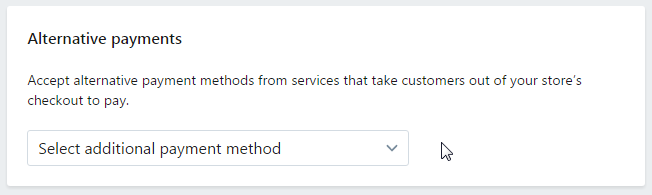
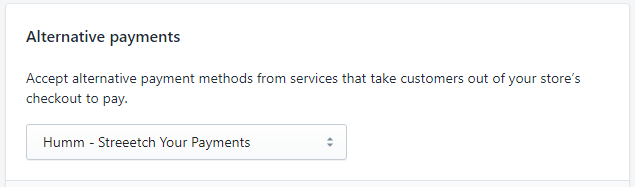
Improved Shopify docs mostly

diff --git a/docs/platforms/shopify.md b/docs/platforms/shopify.md
@@ -9,9 +9,9 @@ To setup and configure Humm on your Shopify store, please use the instructions b
   You will need your <b>Merchant ID</b> and an <b>Encryption Key</b> handy before continuing with the installation.
 </div>
 
-1 – Email <a href="mailto:pit@%domain%?Subject=Humm URL Request (Shopify)&body=Hi, %0D%0A%0D%0AMy Merchant ID is: %0D%0A%0D%0AI would like to setup Humm on my Shopify site. %0D%0A%0D%0AThanks,%0D%0A%0D%0A">pit@%domain%</a> for a copy of the **Humm Gateway Authorisation** URL. Please include your Merchant ID in the email.
+1 – Email <a href="mailto:pit@%domain%">pit@%domain%</a> with your merchant ID and mobile number for a copy of the **Humm Gateway Authorisation URL**.
 
-2 - Clicking the link to be taken to your store's setting page to add Humm.
+2 - Click the **Humm Gateway Authorisation URL** link to be taken to your store's setting page to add Humm.
 
 3 - Once logged in, you will see the prompt below. Click **Install payment provider**.
 
@@ -38,18 +38,14 @@ To setup and configure Humm on your Shopify store, please use the instructions b
 </div>
 
 <div class="panel">
-  Use <b>Test Mode</b> to test Humm or diagnose issues; transactions are similated and credit cards are not debited.
+  Tick the <b>Use test Mode</b> checkbox to test Humm or diagnose issues; transactions are similated and credit cards are not debited.</br>
+  See <a href="../../accreditation/accreditation">Accreditation</a> for more details.
 </div>
 
 <div class="panel">
-  In order to add the Price-info widget as below, please see the Shopify instructions <a href="../../price-info/%no_weekly_shopify%">here</a>.
+  In order to add the Price-info widget as below, please see the Shopify instructions <a href="../../price-info/shopify">here</a>.
 </div>
 
-<p class="price">
-    <span><strong>Product Price</strong>:</span>
-    <span id="priceinfo" class="woocommerce-Price-amount amount">
-        <span class="woocommerce-Price-currencySymbol">$</span>1400.00
-    </span>
-</p>
-<script class="oxipay-price-info" id="my-id" src="http://widgets.%domain%/content/scripts/payments.js?price-selector=%23priceinfo"></script>
+**Price: ** $1000
+<script class="oxipay-price-info" id="my-id" src="http://widgets.oxipay.com.au/content/scripts/payments.js?productPrice=1000"></script>
 </br>

diff --git a/docs/platforms/magento_1.md b/docs/platforms/magento_1.md
@@ -3,16 +3,6 @@
 You can install Humm plugin by manually copying plugin files across into your store's webserver. <br>
 Use the same instructions to upgrade your existing plugin to a newer release.
 
-## Supported Tech Stacks
-
-Humm has been developed and tested against the following Magento tech stacks:
-
-| Magento Version      | Operating System | SQL    | PHP Version | Web Server    |
-|----------------------|------------------|--------|-------------|---------------|
-| Magento 1.9.1.0 (CE) | %operating_system_1% | 5.5.55 | 5.6.30      | Apache 2.4.18 |
-| Magento 1.4.2.0 (CE) | Ubuntu 14.04 LTS | 5.5.54 | 5.5.9       | Apache 2.4.7  |
-
-
 ## Plugin Installation
 
 <div class="panel">
